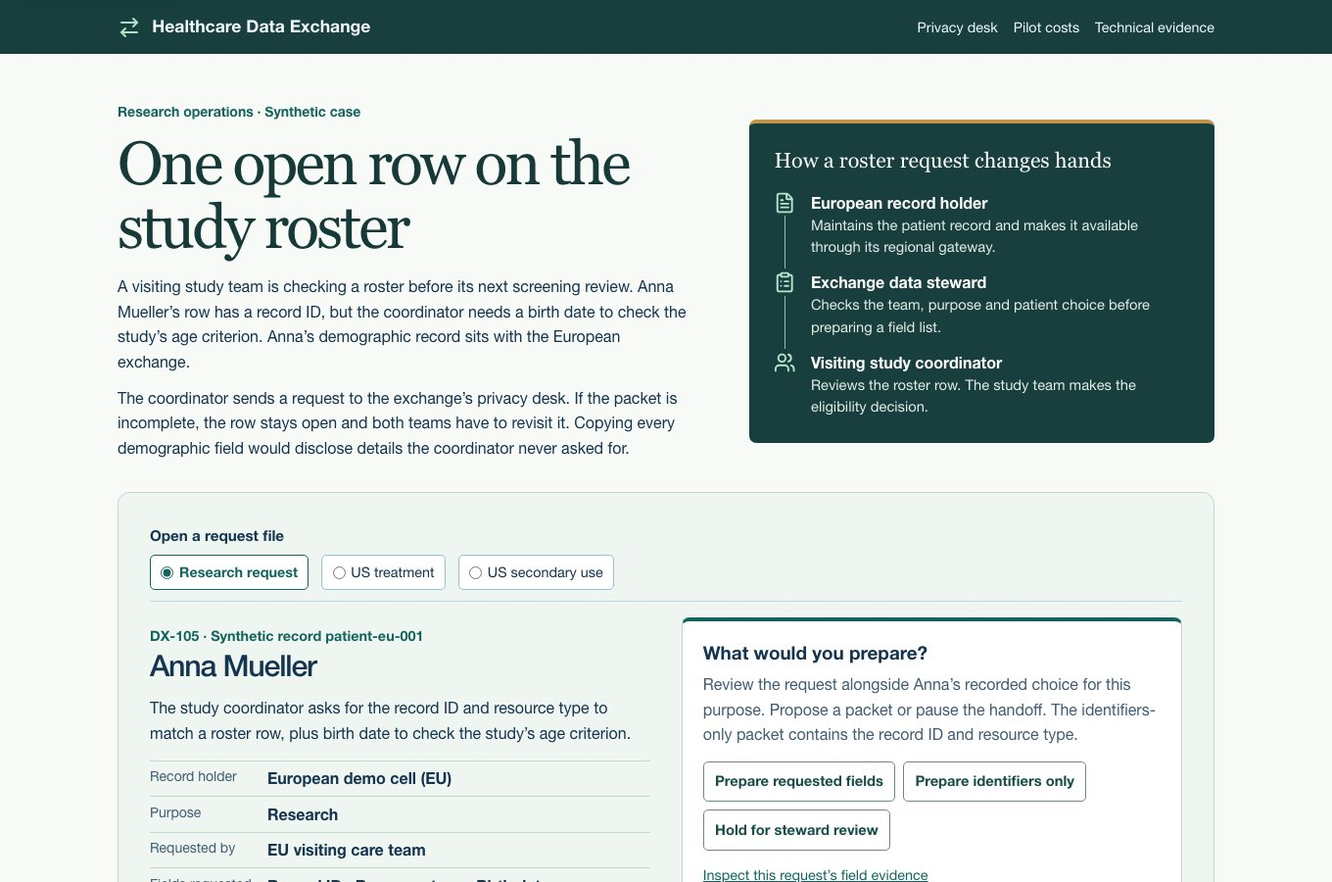
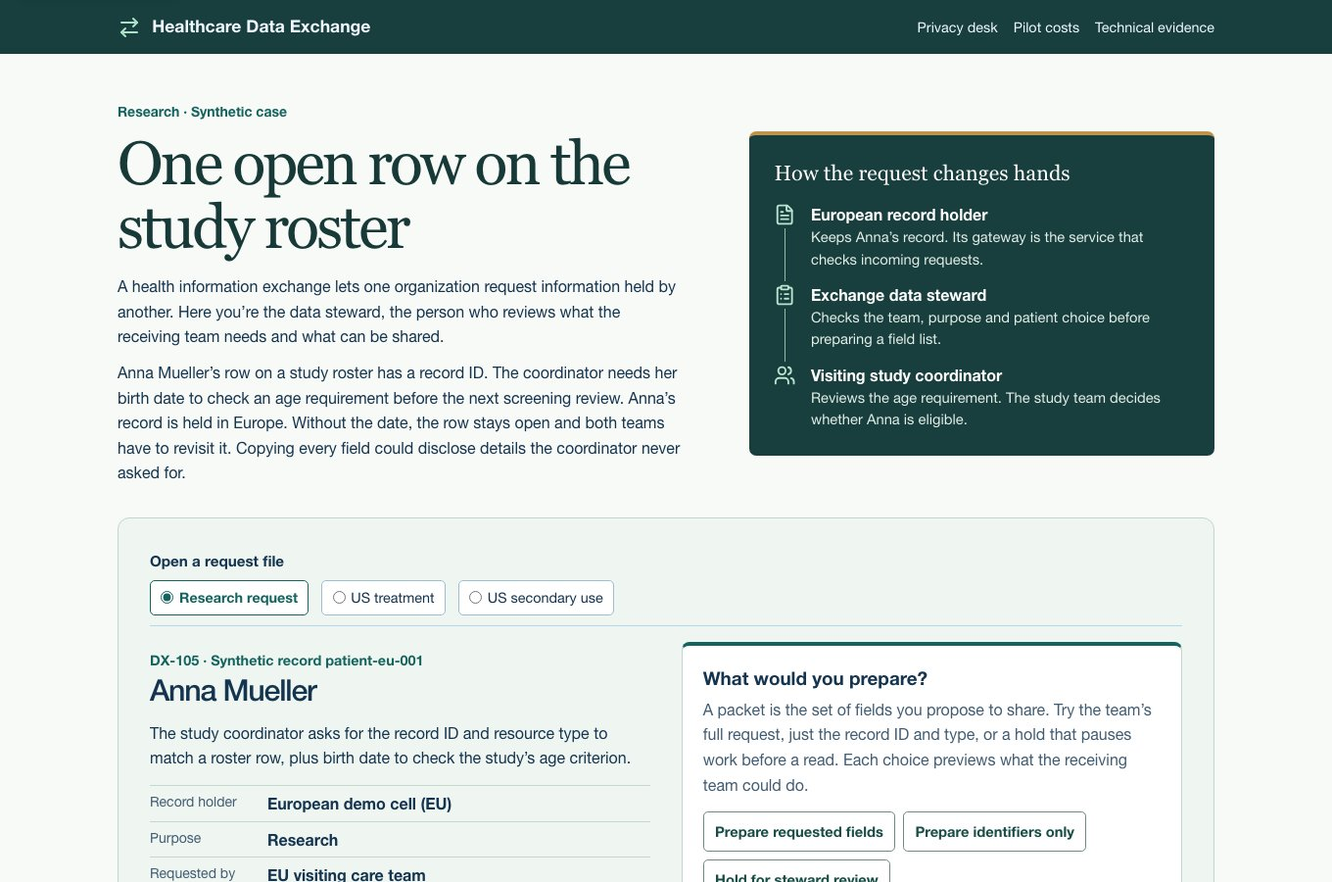
Guide first-time readers through the disclosure decision

diff --git a/web/src/components/clinical/pilot-case.tsx b/web/src/components/clinical/pilot-case.tsx
@@ -22,6 +22,27 @@ const purposeLabels: Record<DemoPurpose, string> = {
   derivative: "Derivative use",
 };
 
+const introductions = {
+  research: {
+    title: "One open row on the study roster", team: "Visiting study coordinator",
+    need: "Anna Mueller’s row on a study roster has a record ID. The coordinator needs her birth date to check an age requirement before the next screening review. Anna’s record is held in Europe.",
+    cost: "Without the date, the row stays open and both teams have to revisit it. Copying every field could disclose details the coordinator never asked for.",
+    task: "Reviews the age requirement. The study team decides whether Anna is eligible.",
+  },
+  treatment: {
+    title: "Two teams checking one intake record", team: "US home care team",
+    need: "A US care team is checking whether its intake record matches Anna Mueller’s European patient record. It asks for basic details such as her name and birth date before relying on the match.",
+    cost: "If the desk cannot prepare the information, the care team must find another way to confirm the match. A mistaken match could attach the information to the wrong chart.",
+    task: "Checks whether the two records belong to the same person.",
+  },
+  derivative: {
+    title: "A name missing from a second list", team: "US clinician team",
+    need: "A US clinician wants to reuse information collected during care to check a separate list. This is called secondary use. The clinician asks for an extract, a copy containing just Anna Mueller’s record ID, its type and her name.",
+    cost: "The name would help the clinician check a match. Including it also reveals who the record describes. The steward needs to review the request before preparing the extract.",
+    task: "Tries to match an extract to a named list for a secondary use.",
+  },
+};
+
 function subscribeRoute(listener: () => void) {
   window.addEventListener("hashchange", listener);
   return () => window.removeEventListener("hashchange", listener);
@@ -33,6 +54,7 @@ export function CasePage() {
   const [lastSelection, setLastSelection] = useState(0);
   const index = route.purpose ? comparisons.findIndex(item => item.purpose === route.purpose) : lastSelection;
   const scenario = comparisons[index];
+  const intro = introductions[scenario.purpose];
   const consent = useSyncExternalStore<boolean | null>(subscribeToConsent,
     () => getDemoConsent("patient-eu-001", scenario.purpose), () => null);
   const previousMode = useRef(false);
@@ -72,15 +94,15 @@ export function CasePage() {
     <div className={styles.caseBody}>
       <div hidden={route.technical}>
         <header className={styles.opening}>
-          <div><p className={styles.kicker}>Research operations · Synthetic case</p>
-            <h1>One open row on the study roster</h1>
-            <p>A visiting study team is checking a roster before its next screening review. Anna Mueller’s row has a record ID, but the coordinator needs a birth date to check the study’s age criterion. Anna’s demographic record sits with the European exchange.</p>
-            <p>The coordinator sends a request to the exchange’s privacy desk. If the packet is incomplete, the row stays open and both teams have to revisit it. Copying every demographic field would disclose details the coordinator never asked for.</p>
+          <div><p className={styles.kicker}>{purposeLabels[scenario.purpose]} · Synthetic case</p>
+            <h1>{intro.title}</h1>
+            <p>A health information exchange lets one organization request information held by another. Here you’re the data steward, the person who reviews what the receiving team needs and what can be shared.</p>
+            <p>{intro.need} {intro.cost}</p>
           </div>
-          <figure className={styles.handoffMap}><figcaption>How a roster request changes hands</figcaption><ol>
-            <li><FileText aria-hidden="true"/><div><strong>European record holder</strong><span>Maintains the patient record and makes it available through its regional gateway.</span></div></li>
+          <figure className={styles.handoffMap}><figcaption>How the request changes hands</figcaption><ol>
+            <li><FileText aria-hidden="true"/><div><strong>European record holder</strong><span>Keeps Anna’s record. Its gateway is the service that checks incoming requests.</span></div></li>
             <li><ClipboardList aria-hidden="true"/><div><strong>Exchange data steward</strong><span>Checks the team, purpose and patient choice before preparing a field list.</span></div></li>
-            <li><Users aria-hidden="true"/><div><strong>Visiting study coordinator</strong><span>Reviews the roster row. The study team makes the eligibility decision.</span></div></li>
+            <li><Users aria-hidden="true"/><div><strong>{intro.team}</strong><span>{intro.task}</span></div></li>
           </ol></figure>
         </header>
         {route.snapshot && consent !== null && consent !== route.granted && !route.technical && <aside className={styles.referenceCard}>
@@ -118,12 +140,12 @@ const plans: { key: PacketPlan; label: string }[] = [
   { key: "hold", label: "Hold for steward review" },
 ];
 const fieldLabels: Record<string, string> = { id: "Record ID", resourceType: "Resource type", birthDate: "Birth date", gender: "Gender", name: "Name" };
-type Handoff = { fields: string[]; explanation: string };
+type Handoff = { fields: string[]; finding: string; explanation: string };
 
 function handoffFor(scenario: typeof comparisons[number], consent: boolean, plan: PacketPlan): Handoff {
-  if (plan === "hold") return { fields: [], explanation: "The steward has paused this packet. The requesting team waits for clarification. No access check is needed for a hold." };
+  if (plan === "hold") return { fields: [], finding: "Steward paused the request", explanation: "The steward has paused this packet. The requesting team waits for clarification. No access check is needed for a hold." };
   const check = previewPatient("patient-eu-001", scenario.purpose, scenario.requester, consent);
-  if (!check.ok) return { fields: [], explanation: !consent
+  if (!check.ok) return { fields: [], finding: !consent ? "Consent check stopped the read" : "Region check stopped the read", explanation: !consent
     ? "Anna has withheld consent for this purpose. The team’s request stays pending. Only a new patient choice can change that consent input."
     : "The team and record are in different regions. Even with consent, this treatment request cannot supply the intake record through this route." };
   const allowed = Object.keys(check.data.patient as Record<string, unknown>);
@@ -134,7 +156,32 @@ function handoffFor(scenario: typeof comparisons[number], consent: boolean, plan
   else explanation = scenario.purpose === "research"
     ? "The coordinator could match the record ID, but the age check stays open. The roster still needs a permitted birth date."
     : "The clinician could reconcile a record ID. Without a name, confirming a match against the named list needs another route.";
-  return { fields, explanation };
+  return { fields, finding: fields.length ? "Packet ready to preview" : "Proposed packet exceeds the field allowance", explanation };
+}
+
+function EvidenceWalkthrough({ purpose, consent, onFinish }: {
+  purpose: DemoPurpose; consent: boolean | null; onFinish: () => void;
+}) {
+  const [step, setStep] = useState(0);
+  const teamRegion = purpose === "research" ? "Europe" : "the US";
+  const use = { research: "screening a study roster", treatment: "caring for Anna", derivative: "reusing a limited extract for a separate task" }[purpose];
+  const need = { research: "Which field would let the coordinator check the age requirement?", treatment: "Which details could the team compare with its local intake record?", derivative: "Which detail would help the clinician check a name on the other list?" }[purpose];
+  const clues = [
+    { title: "Where is the request coming from?", text: `Anna’s record is held in Europe. The requesting team is in ${teamRegion}. The exchange checks that route as well as the reason for asking.` },
+    { title: "What has Anna agreed to?", text: `This team is asking for information to use in ${use}. Consent is Anna’s permission to use her record for that reason. ${consent === null ? "Her choice is loading." : consent ? "Granted means she agreed to this use." : "Withheld means she has not given permission for this use."} She can make a different choice for another purpose.` },
+    { title: "What does the team actually need?", text: `A field is one piece of a record. The record ID points to Anna’s entry. The resource type says what kind of entry it is (“Patient”). Birth date is a separate field. ${need}` },
+  ];
+  return <details className={styles.readAlong}>
+    <summary>Walk me through this request</summary>
+    <div className={styles.readAlongBody}>
+      <div aria-live="polite" aria-atomic="true"><small>Evidence {step + 1} of {clues.length}</small>
+        <h3>{clues[step].title}</h3><p>{clues[step].text}</p>
+      </div>
+      <div><button type="button" disabled={step === 0} onClick={() => setStep(step - 1)}>Back</button>
+        {step < clues.length - 1 ? <button type="button" onClick={() => setStep(step + 1)}>Next clue</button>
+          : <button type="button" onClick={onFinish}>Explore packet choices</button>}</div>
+    </div>
+  </details>;
 }
 
 function ResearchRequest({ selection, consent, plan, onChange, evidenceHref }: {
@@ -143,20 +190,25 @@ function ResearchRequest({ selection, consent, plan, onChange, evidenceHref }: {
 }) {
   const scenario = comparisons[selection];
   const patient = DEMO_PATIENTS.find(item => item.id === "patient-eu-001");
-  const [before, setBefore] = useState<{ granted: boolean; count: number } | null>(null);
+  const firstChoice = useRef<HTMLButtonElement>(null);
+  const [comparison, setComparison] = useState<{ plan: PacketPlan; consent: boolean; message: string } | null>(null);
   if (!patient) return null;
   const team = scenario.requester === "us-clinician" ? "US clinician team" : requesterPresets.find(item => item.value === scenario.requester)?.label;
   const receipt = plan && consent !== null ? handoffFor(scenario, consent, plan) : null;
   function decide(next: PacketPlan) {
     if (consent === null) return;
-    setBefore(null);
+    if (receipt && plan && plan !== next) {
+      const label = plans.find(item => item.key === plan)?.label;
+      setComparison({ plan: next, consent, message: `Previous choice · ${label}. ${receipt.finding} · ${receipt.fields.length} fields prepared. Anna’s consent stayed the same.` });
+    } else setComparison(null);
     if (next !== "hold") simulatePatient("patient-eu-001", scenario.purpose, scenario.requester);
     onChange(selection, consent, next);
   }
   function replay() {
     if (consent === null || !plan || !receipt) return;
     if (!simulateConsent("patient-eu-001", scenario.purpose, !consent).ok) return;
-    setBefore({ granted: consent, count: receipt.fields.length });
+    const nextReceipt = handoffFor(scenario, !consent, plan);
+    setComparison({ plan, consent: !consent, message: `Same request and steward decision. ${consent ? "Granted" : "Withheld"} consent prepared ${receipt.fields.length} fields. ${!consent ? "Granted" : "Withheld"} consent prepares ${nextReceipt.fields.length}. Before the change · ${receipt.finding}.` });
     if (plan !== "hold") simulatePatient("patient-eu-001", scenario.purpose, scenario.requester);
     onChange(selection, !consent, plan);
   }
@@ -164,7 +216,7 @@ function ResearchRequest({ selection, consent, plan, onChange, evidenceHref }: {
     resetSelectedPatient();
     resetAccessContext();
     resetDemo();
-    setBefore(null);
+    setComparison(null);
     onChange(0);
   }
   return <section id="research-request" tabIndex={-1} className={styles.case} aria-label="Access request intake">
@@ -180,21 +232,29 @@ function ResearchRequest({ selection, consent, plan, onChange, evidenceHref }: {
         <div><dt>Fields requested</dt><dd>{requestedFields[scenario.purpose].map(field => fieldLabels[field]).join(" · ")}</dd></div>
         <div><dt>Purpose consent</dt><dd>{consent === null ? "Loading preference" : consent ? "Granted" : "Withheld"}</dd></div>
       </dl>
+      <EvidenceWalkthrough purpose={scenario.purpose} consent={consent} onFinish={() => firstChoice.current?.focus()}/>
     </div>
     <div className={styles.request}>
       <h3>What would you prepare?</h3>
-      <p>Review the request alongside Anna’s recorded choice for this purpose. Propose a packet or pause the handoff. The identifiers-only packet contains the record ID and resource type.</p>
-      <div className={styles.packetActions} role="group" aria-label="Steward decision">{plans.map(item => <button key={item.key} type="button" disabled={consent === null} aria-pressed={plan === item.key} onClick={() => decide(item.key)}>{item.label}</button>)}</div>
+      <p>A packet is the set of fields you propose to share. Try the team’s full request, just the record ID and type, or a hold that pauses work before a read. Each choice previews what the receiving team could do.</p>
+      <div className={styles.packetActions} role="group" aria-label="Steward decision">{plans.map(item => <button key={item.key} ref={item.key === "requested" ? firstChoice : undefined} type="button" disabled={consent === null} aria-pressed={plan === item.key} onClick={() => decide(item.key)}>{item.label}</button>)}</div>
       {receipt && <section className={styles.packetResult} aria-label={scenario.receiver} aria-live="polite" aria-atomic="true">
-        <p className={styles.kicker}>Local packet preview</p><h3>{scenario.receiver}</h3><strong>{receipt.fields.length} fields prepared</strong>
+        <p className={styles.kicker}>Local packet preview</p><h3>{scenario.receiver}</h3><p>{receipt.finding}</p><strong>{receipt.fields.length} fields prepared</strong>
         {receipt.fields.length > 0 && <p>{receipt.fields.map(field => fieldLabels[field]).join(" · ")}</p>}<p>{receipt.explanation}</p>
       </section>}
       <div className={styles.requestActions}><a href={evidenceHref}>Inspect this request’s field evidence</a></div>
     </div>
-    {receipt && <section className={styles.consentEvent}><div><h3>Replay a patient consent event</h3>
-      <p>Keep your packet choice and replay Anna’s {consent ? "withdrawal" : "grant"} for this purpose. The preview stays in this browser.</p></div>
-      <button type="button" className={styles.eventButton} onClick={replay}>{consent ? "Replay Anna’s withdrawal" : "Replay Anna’s grant"}</button>
-      {before && <p role="status">Same request and steward decision. {before.granted ? "Granted" : "Withheld"} consent prepared {before.count} fields. {consent ? "Granted" : "Withheld"} consent prepares {receipt.fields.length}.</p>}
+    {receipt && <section className={styles.consentEvent} aria-label="Compare one change">
+      <div><h3>Change one thing and compare</h3>
+        <p>{plan === "hold" ? "Keep Anna’s choice and try the requested packet. What happens when the desk actually checks the request?"
+          : !consent ? "Keep the team and packet fixed. Try a scenario where Anna grants permission, then look again at what the team could use."
+          : scenario.purpose === "treatment" ? "Keep the team and packet fixed. Try a scenario where Anna withdraws permission and compare the reasons for the result."
+          : "Keep Anna’s consent fixed and change the packet size. Which part of the team’s task can it complete?"}</p></div>
+      <div className={styles.compareActions}>
+        {(plan === "hold" || (consent && scenario.purpose !== "treatment")) && <button type="button" className={styles.eventButton} onClick={() => decide(plan === "requested" ? "identifiers" : "requested")}>{plan === "requested" ? "Compare identifiers only" : "Compare requested fields"}</button>}
+        <button type="button" className={styles.eventButton} onClick={replay}>{consent ? "Replay Anna’s withdrawal" : "Replay Anna’s grant"}</button>
+      </div>
+      {comparison && comparison.plan === plan && comparison.consent === consent && <p role="status">{comparison.message} <strong>Current result · {receipt.finding} ({receipt.fields.length} fields).</strong></p>}
     </section>}
     <details className={styles.session}><summary>Session settings and reset</summary>
       <p>The request link carries the selected case and packet decision. Anna’s synthetic consent and activity are local to this tab. Reset restores the initial preferences and clears the decision.</p>
@@ -264,7 +324,7 @@ function PilotWorksheet({ scenario }: { scenario: string }) {
         <details><summary>How exchange teams evaluate this kind of work</summary>
           <p>Maryland’s CRISP exchange describes investigators applying for research use and separate committees reviewing use cases. AHRQ’s exchange evaluation guide asks teams to identify stakeholders, objectives and feasible measures. Those sources informed the roles and pilot criteria in this fictional case. <a href="https://www.crisphealth.org/research/">CRISP research access</a> · <a href="https://digital.ahrq.gov/health-information-exchange-hie-evaluation-toolkit">AHRQ exchange evaluation guide</a></p>
         </details>
-        <p>HL7 describes the Patient resource as demographic and administrative data. The study roster and age check are fictional uses of those fields. <a href="https://hl7.org/fhir/R4/patient.html">FHIR Patient</a> · ONC describes recording and maintaining patient choices. HL7’s FHIR R4 Consent model represents recipient, purpose, and policy context. The EU and US decisions above follow this project’s synthetic rules. <a href="https://healthit.gov/privacy-security/patient-consent-electronic-health-information-exchange/">ONC consent guidance</a> · <a href="https://hl7.org/fhir/R4/consent-definitions.html">HL7 Consent definitions</a></p>
+        <p>HL7 describes the Patient resource as demographic and administrative data. The study roster and age check are fictional uses of those fields. <a href="https://hl7.org/fhir/R4/patient.html">FHIR Patient</a> · ONC explains how organizations exchange information electronically and maintain patient choices. <a href="https://healthit.gov/health-it-basics/hie/">What is health information exchange?</a> HL7’s FHIR R4 Consent model represents recipient, purpose, and policy context. The EU and US decisions above follow this project’s synthetic rules. <a href="https://healthit.gov/privacy-security/patient-consent-electronic-health-information-exchange/">ONC consent guidance</a> · <a href="https://hl7.org/fhir/R4/consent-definitions.html">HL7 Consent definitions</a></p>
       </div>
     </section>
   );

diff --git a/web/src/components/clinical/case-evidence.tsx b/web/src/components/clinical/case-evidence.tsx
@@ -25,7 +25,7 @@ function PublicationCheck() {
     else setResult("Digest differs from the pinned publication. Hold sign-off and reconcile the source revision and mirror files.");
   }
   return <div className={styles.publication}>
-    <p>The two linked Git snapshots record the same July 19, 2026 publication. Compare its published digest with the mirror pointer or the newer working rules.</p>
+    <p>A digest is a fingerprint calculated from the rule files. Compare the July 19, 2026 publication with the mirror (the published copy), then load the working digest to see whether the newer files have the same fingerprint.</p>
     <p><a href={publication.stampUrl}>Pinned canonical stamp</a> · <a href={publication.pointerUrl}>Pinned mirror pointer</a></p>
     <p><strong>Published SHA-256</strong> <code>{publication.published}</code></p>
     <label>Candidate bundle digest<input spellCheck={false} value={candidate} onChange={event => { setCandidate(event.target.value); setResult(""); }} /></label>
@@ -102,13 +102,13 @@ function FieldManifest({ receipt, purpose, plan }: { receipt: Receipt; purpose: 
   const [packet, setPacket] = useState<Record<string, unknown> | null>(null);
   const outside = selected.filter(field => !receipt.fields.includes(field));
   const blocked = plan === "hold" || receipt.status !== 200 || !selected.length || outside.length > 0;
-  let status = "Ready to stage the selected fields.";
+  let status = "Stage the checked fields to inspect the local packet, or clear a field to try a smaller packet.";
   if (plan === "hold") status = "The steward held this packet. Return to the case to try a different decision.";
   else if (receipt.status !== 200) status = "Policy denied this trial. No fields can be staged.";
   else if (!selected.length) status = "Select at least one authorized field to stage a preview.";
   else if (outside.length) status = outside.join(", ") + " falls outside the allowed scope.";
   return <div className={styles.manifestBox}><div><h3>Prepare the field manifest</h3>
-    <p>{plan === "hold" ? "Fields on the original request remain held. Change the decision at the desk to prepare a packet." : "Test a narrower local preview by removing fields. The case keeps your original decision."}</p>
+    <p><code>id</code> identifies this record. <code>resourceType</code> says what kind of record it is, here a Patient.</p>
     {requested.map(field => <label key={field} className={styles.fieldRow}><span><input type="checkbox" disabled={!permittedByPlan.includes(field)} checked={selected.includes(field)} onChange={() => {
       setSelected(selected.includes(field) ? selected.filter(key => key !== field) : requested.filter(key => key === field || selected.includes(key))); setPacket(null);
     }} />{field}</span><span>{plan === "hold" ? "Held" : !receipt.fields.includes(field) ? "Withhold" : permittedByPlan.includes(field) ? "Authorized" : "Outside plan"}</span></label>)}
@@ -127,30 +127,30 @@ export function CaseEvidence({ scenario, route }: { scenario: Scenario; route: R
   const back = ["#research-request", scenario.purpose, route.granted ? "granted" : "withheld", ...(route.plan ? ["plan-" + route.plan] : []), ...(route.mirror ? ["mirror"] : [])].join("/");
   return <article className={styles.technicalGuide + " " + guide.guide} aria-label="Technical evidence for the selected request">
     <a href={back}>← Return to the selected privacy case</a>
-    <header className={styles.caseHeading}><p className={styles.kicker}>Technical evidence / Anna Mueller · patient-eu-001</p><h1 tabIndex={-1} id="technical-title">Trace the {scenario.purpose} request</h1><p>Trace Anna’s synthetic EU Patient record from the access check to the packet the steward proposed.</p></header>
+    <header className={styles.caseHeading}><p className={styles.kicker}>Technical evidence / Anna Mueller · patient-eu-001</p><h1 tabIndex={-1} id="technical-title">Trace the {scenario.purpose} request</h1><p>Follow one question at a time. Who may read Anna’s record? Which fields fit the request? What evidence would show that a receiving system applied the rule? Both consent trials run here in your browser.</p></header>
     <dl className={styles.techFacts}><div><dt>Request</dt><dd>{scenario.label}</dd></div><div><dt>Credential profile</dt><dd>{scenario.requester}</dd></div><div><dt>Steward’s decision</dt><dd>{route.plan ? planLabels[route.plan] : "No packet selected"}</dd></div></dl>
     <nav className={styles.stageNav} aria-label="Implementation stages">{stages.map((stage, index) => <a key={stage} href={href(stage)} aria-current={stage === route.stage ? "step" : undefined}><span>{index + 1}</span>{stageNames[stage]}</a>)}</nav>
     <section className={styles.trialPanel} aria-label="Consent trials"><h2>{held ? "If the desk had requested a read" : "Consent at the time of the read"}</h2>
-      <p>{held ? "The steward held this request without running an access check. Both trials below are hypothetical evaluations of the browser policy." : "Switch trials to test the same request against the opposite patient choice. Both checks run locally."}</p>
+      <p>{held ? "The steward paused the request before checking access. Choose a trial to see what the browser rule would have allowed if the team had asked to read the record." : "Compare the two trials. They keep the team and purpose fixed and change only Anna’s consent. Selecting a trial leaves her recorded preference in this tab intact."}</p>
       <div className={styles.trialGrid}>{(["selected", "opposite"] as const).map((trial, index) => {
         const receipt = index === 0 ? baseline : alternate;
         return <a key={trial} href={href(route.stage, trial)} aria-current={route.trial === trial ? "true" : undefined}>
           <strong>{index === 0 ? "Selected consent" : "Opposite consent"} · {receipt.granted ? "Granted" : "Withheld"}</strong>
-          <span>{trialLabel} {receipt.status} · {receipt.fields.length} {held ? "fields under that rule" : "authorized fields"}</span></a>;
+          <span>{trialLabel} {receipt.status} · {receipt.status === 200 ? "Read allowed" : "Read denied"} · {receipt.fields.length} {held ? "fields under that rule" : "authorized fields"}</span></a>;
       })}</div></section>
     <section className={styles.stagePanel} aria-label={stageNames[route.stage]}>
       {held && <p className={styles.kicker}>Held request · Hypothetical policy evaluation</p>}
-      {route.stage === "consent" && <><h2>Which access rule applies?</h2><p>The connected gateway derives the requester’s region from verified credentials. Open Policy Agent (OPA) evaluates the purpose, regional scope and consent for that purpose. OPAL distributes patient consent changes separately from the rules.</p>
+      {route.stage === "consent" && <><h2>Which access rule applies?</h2><p>In the connected system, a gateway checks the team’s credentials to establish who is asking and from which region. Its rule evaluator, Open Policy Agent (OPA), checks the reason for the request, the region and Anna’s consent for that use. OPAL delivers consent changes to the evaluator separately from rule updates.</p>
         <p className={guide.observation}><strong>{trialLabel} {active.status}.</strong> {held ? "This trial models a read by" : "Requester"} {scenario.requester} for {scenario.purpose} with consent {active.granted ? "granted" : "withheld"}. {active.reason}</p>
         <a href={root + "services/gateway/internal/requester/requester.go"}>Caller context</a> · <a href={root + "policy/authz.rego"}>OPA rule</a> · <a href={root + "web/src/lib/demo.ts"}>Browser fixture</a></>}
-      {route.stage === "fields" && <><h2>Which fields fit this packet?</h2><p>Following an allowed read, the connected gateway fetches the Patient from its home FHIR cell and filters it to OPA’s field list. The steward can then prepare a smaller packet for the stated task.</p>
+      {route.stage === "fields" && <><h2>Which fields fit this packet?</h2><p>FHIR is a standard for organizing and exchanging health records. After an allowed check, the connected gateway retrieves a Patient record from its home region and returns the fields allowed by policy. The field manifest lists the pieces the steward proposes to share.</p>
         <p className={guide.observation}><strong>{held ? "Held at the desk · 0 fields staged" : `${requestedFields[scenario.purpose].length} requested · ${active.fields.length} authorized`}</strong><br/>{packetDescription(scenario.purpose, active, route.plan)}</p>
         <FieldManifest key={String(active.granted) + "/" + (route.plan ?? "")} receipt={active} purpose={scenario.purpose} plan={route.plan}/>
         <a href={root+"services/gateway/internal/handlers/handlers.go"}>Gateway read</a> · <a href={root+"services/gateway/internal/fhir/client.go"}>Field filter</a> · <a href={root+"fhir/samples/eu/patient-eu-001.json"}>Patient fixture</a></>}
       {route.stage === "receiver" && <><h2>What can the steward sign?</h2><p className={guide.observation}><strong>{held ? "Desk decision · hold." : `Browser ${active.status}.`}</strong> {packetDescription(scenario.purpose, active, route.plan)}</p>
-        <p>No authenticated read, receiver timestamp or delivery acknowledgment exists for Anna’s case. To check enforcement, the steward needs the patient event and a matching read at each intended gateway, including status, fields and comparable timestamps.</p>
-        <p>The Compose probe exercises a research withdrawal and grant on a different synthetic record, patient-eu-002, at one receiving gateway. <a href={root+"scripts/demo.sh"}>Gateway probe</a> · <a href={root+"docs/adr/0008-opal-consent-sync.md"}>Consent distribution</a></p></>}
-      {route.stage === "publication" && <><h2>Which rule bundle was published?</h2><p>The mirror’s pinned digest identifies the published rule files. Check the runtime separately to establish which rules and consent data the receiver used.</p><PublicationCheck/><a href={root + "scripts/sync-policy-repo.sh"}>Policy sync script</a> · <a href="https://github.com/SafetyMP/healthcare-policy#opal-bundle">Published policy mirror</a> · <a href="https://www.openpolicyagent.org/docs/management-status">OPA instance status</a></>}
+        <p>No authenticated read, receiver timestamp or delivery acknowledgment exists for Anna’s case. A browser receipt shows how the simulation responded. To confirm enforcement, compare the time Anna changed consent with the time each receiving system checked the same request, and inspect the fields it returned.</p>
+        <p>The linked test runs the connected services and checks one gateway after a research withdrawal and grant for a different synthetic record, patient-eu-002. <a href={root+"scripts/demo.sh"}>Gateway probe</a> · <a href={root+"docs/adr/0008-opal-consent-sync.md"}>Consent distribution</a></p></>}
+      {route.stage === "publication" && <><h2>Which rule bundle was published?</h2><p>Publication answers which rules were made available. A receiving gateway must be checked separately to establish which rules and consent data it used.</p><PublicationCheck/><a href={root + "scripts/sync-policy-repo.sh"}>Policy sync script</a> · <a href="https://github.com/SafetyMP/healthcare-policy#opal-bundle">Published policy mirror</a> · <a href="https://www.openpolicyagent.org/docs/management-status">OPA instance status</a></>}
     </section><footer className={styles.techFooter}><a href={back}>Return to {scenario.label.toLowerCase()}</a><a href={href(route.stage)}>Permalink to this stage and trial</a>{route.mirror && <a href="https://github.com/SafetyMP/healthcare-policy#follow-a-research-access-request">Return to the policy mirror case</a>}</footer>
   </article>;
 }

diff --git a/web/tests/e2e/demo.spec.ts b/web/tests/e2e/demo.spec.ts
@@ -19,6 +19,32 @@ async function checkResearch(page: Page, allowed: boolean) {
 }
 
 test.describe("Static synthetic demo", () => {
+  test("a first-time reviewer follows the treatment evidence and compares two different empty packets", async ({ page }) => {
+    await page.goto("./#research-request/treatment/granted/plan-hold");
+    await expect(page.getByRole("heading", { name: "Two teams checking one intake record" })).toBeVisible();
+    const intake = page.getByRole("region", { name: "Access request intake" });
+    const help = intake.locator("details").filter({ has: page.getByText("Walk me through this request", { exact: true }) });
+    await help.locator("summary").click();
+    await expect(help).toContainText("requesting team is in the US");
+    await help.getByRole("button", { name: "Next clue" }).click();
+    await expect(help).toContainText("Granted means she agreed to this use");
+    await help.getByRole("button", { name: "Next clue" }).click();
+    await expect(help).toContainText("The record ID points to Anna’s entry");
+    await help.getByRole("button", { name: "Explore packet choices" }).click();
+    await expect(intake.getByRole("button", { name: "Prepare requested fields", exact: true })).toBeFocused();
+    await expect(intake.getByRole("button", { name: "Hold for steward review" })).toHaveAttribute("aria-pressed", "true");
+    await intake.getByRole("button", { name: "Compare requested fields" }).click();
+    await expect(intake.getByRole("status")).toContainText("Steward paused the request");
+    await expect(intake.getByRole("status")).toContainText("Region check stopped the read (0 fields)");
+    await expect(page).toHaveURL(/treatment\/granted\/plan-requested$/);
+    await intake.getByRole("button", { name: "Replay Anna’s withdrawal" }).click();
+    await expect(intake.getByRole("status")).toContainText("Before the change · Region check stopped the read.");
+    await expect(intake.getByRole("status")).toContainText("Current result · Consent check stopped the read (0 fields)");
+    await intake.getByRole("radio", { name: "Research request", exact: true }).check();
+    await expect(intake.getByRole("status")).toHaveCount(0);
+    await expect(intake.getByRole("region", { name: "Coordinator’s handoff" })).toHaveCount(0);
+  });
+
   test("each desk request carries its team, consent and steward decision into the guide", async ({ page }) => {
     for (const [label, purpose, team, status] of [
       ["Research request", "research", "eu-visiting", 403],

diff --git a/web/src/components/clinical/pilot-case.module.css b/web/src/components/clinical/pilot-case.module.css
@@ -189,3 +189,13 @@
 .framework p { line-height: 1.5; }
 .framework a { color: var(--primary); font-weight: 600; text-decoration: underline; text-underline-offset: .18em; }
 @media (max-width: 700px) { .framework ol { grid-template-columns: 1fr; gap: .65rem; } }
+
+.readAlong { margin-top: .8rem; background: #fff; border: 1px solid #b7cdbf; border-radius: .4rem; }
+.readAlong summary { padding: .65rem .8rem; color: var(--primary); cursor: pointer; font-weight: 650; }
+.readAlongBody { padding: 0 .8rem .75rem; }
+.readAlongBody small { color: var(--muted-foreground); }
+.readAlongBody h3 { margin: .2rem 0; font-weight: 650; }
+.readAlongBody p { line-height: 1.5; }
+.readAlongBody button { margin: .6rem .5rem 0 0; border: 1px solid #6d8a7c; border-radius: .3rem; padding: .4rem .75rem; }
+.readAlongBody button:disabled { opacity: .55; }
+.compareActions { display: flex; flex-wrap: wrap; gap: .5rem; }

diff --git a/docs/exchange-operations.md b/docs/exchange-operations.md
@@ -2,6 +2,8 @@
 
 The EU visiting study team needs a birth date to review an age criterion on Anna Mueller’s synthetic roster row. Open the steward’s request file, compare the fields requested with Anna’s purpose-specific consent, then prepare the requested packet, prepare identifiers only or hold it for review. Try the same decision after a synthetic consent change. The US treatment and secondary-use files give the steward different requester and regional constraints. The operations director can compare this approach with manual review and a checklist. [Open the privacy desk](https://safetymp.github.io/Healthcare-Data-Exchange/#research-request)
 
+For a first visit, open **Walk me through this request**. Follow the team’s location, Anna’s consent for the stated purpose and the fields the receiver needs. **Explore packet choices** takes you to the decision without making it for you. After a decision, **Change one thing and compare** keeps either consent or the packet fixed and shows why the outcome changed, even when both trials produced zero fields.
+
 | Selected request | With consent withheld | With consent granted |
 | --- | --- | --- |
 | Research, EU visiting team | Browser 403, no fields | Browser 200, five patient fields |
